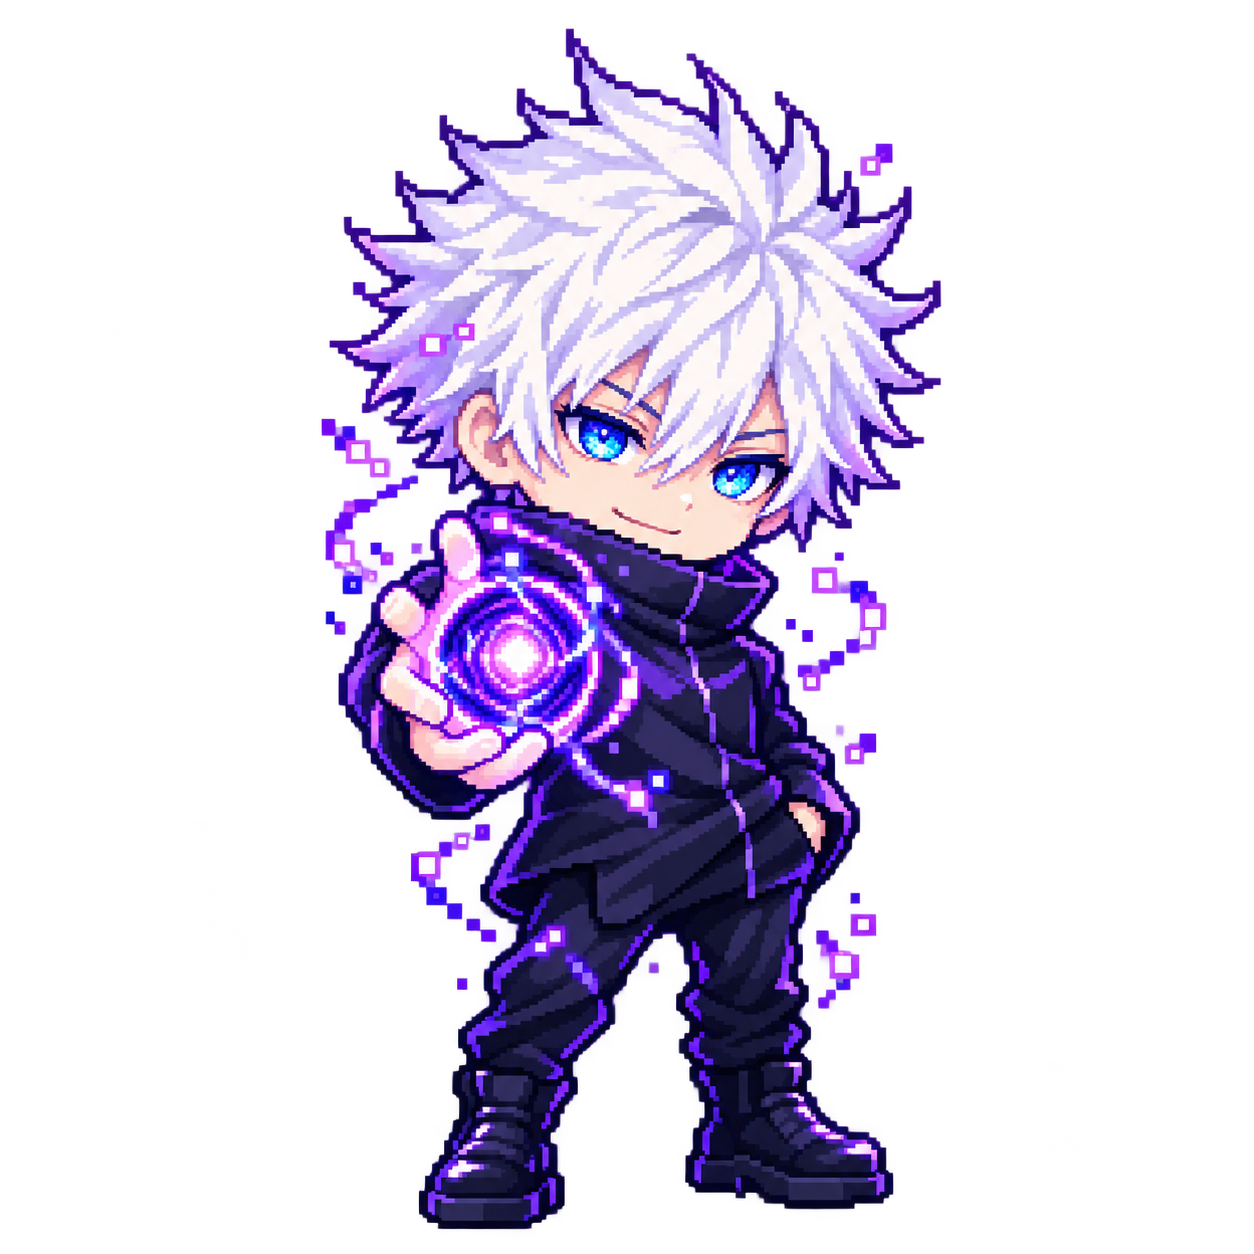
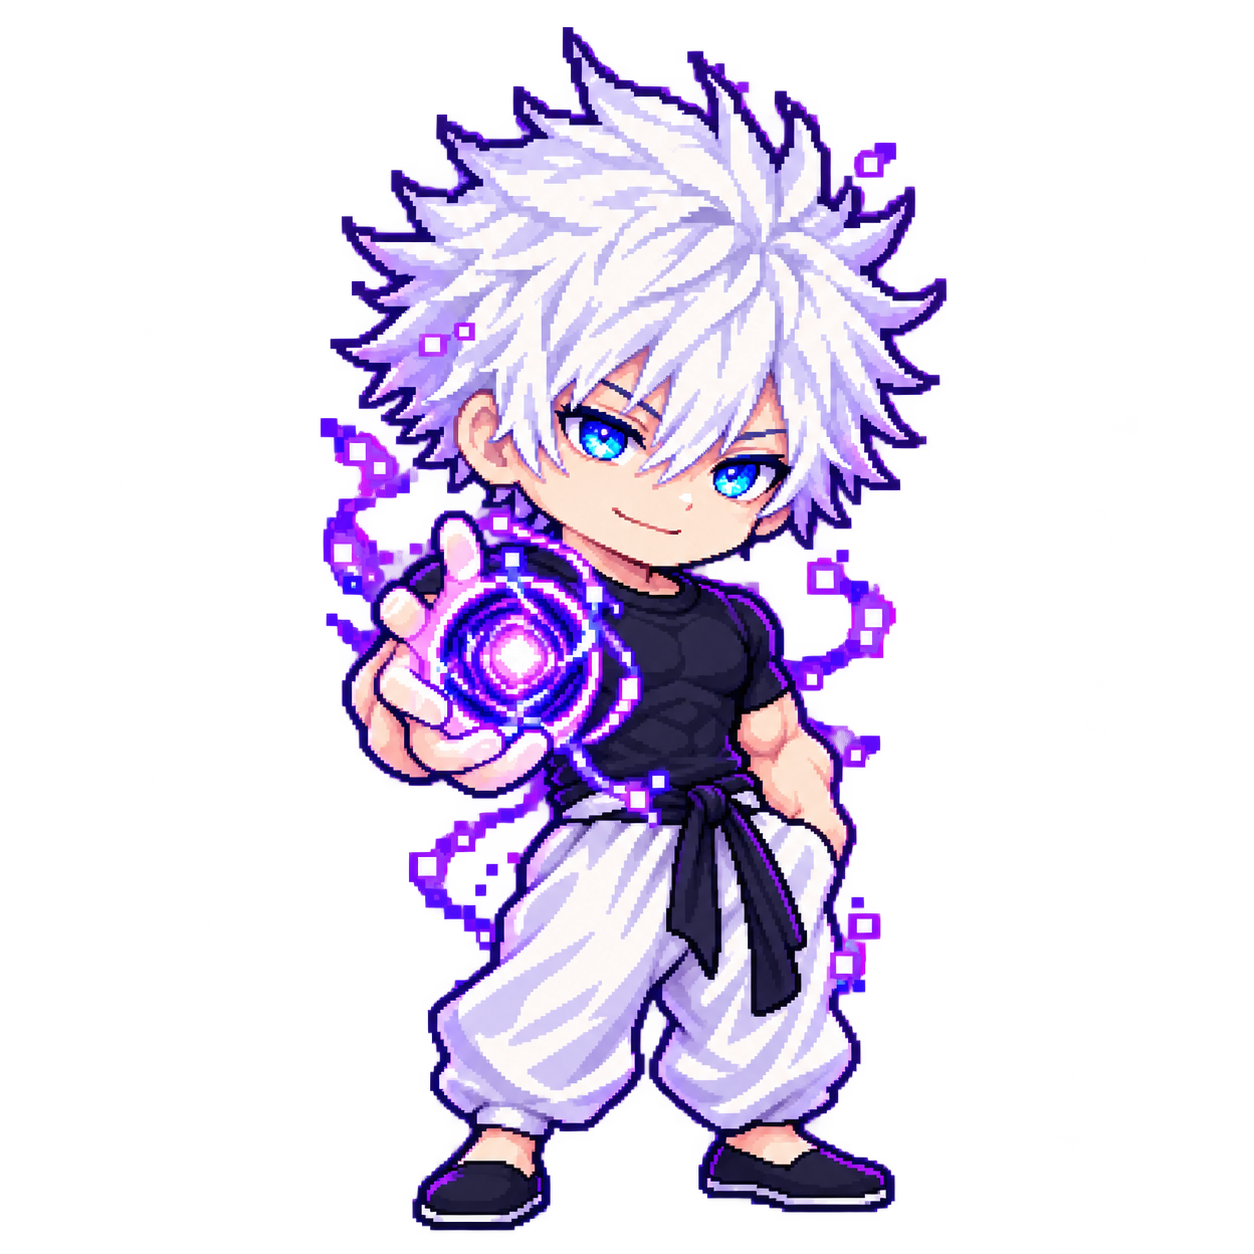
Update Gojo final form to Shinjuku showdown outfit

Changed region(s): [[0.2488, 0.0, 0.7775, 0.9952]]

diff --git a/ARTWORK.md b/ARTWORK.md
@@ -80,3 +80,9 @@ Generate one transparent full-body anime fan-art character sprite for a study pl
 
 Generate one transparent full-body anime fan-art character sprite for a study planner. Frost attached is STYLE REFERENCE ONLY: match detailed crisp square pixel art, cute chibi proportions, large anime eyes, sophisticated pixel shading. Centered entire head and boots visible, character about 75% canvas height. True transparent background, no text, scenery, UI, other characters or soft vector/painted rendering. Recognizable named character with accurate signature traits. Asta from Black Clover, Devil Union form: recognizable ash-grey spiky hair and fierce human face, four small dark horns, black angular anti-magic armor with red-orange accents, black wings folded close behind silhouette, broad dark sword, compact red anti-magic sparks. Full-body cute detailed chibi.
 
+
+## Gojo final-form outfit update
+
+Saved as assets/gojo-3.png. Built-in image editing tool; original Gojo sprite used as edit target.
+
+Use case: identity-preserve. Edit target: the attached Gojo final-evolution pixel sprite. Change ONLY his outfit to Satoru Gojo's Shinjuku showdown outfit during the Sukuna fight: fitted plain BLACK SHORT-SLEEVE CREW-NECK T-SHIRT showing forearms and a muscular torso in the same cute chibi proportions, loose voluminous WHITE MARTIAL-ARTS TROUSERS with a dark waist sash/belt, and black slip-on martial arts shoes. Remove the high collar jacket, dark trousers and tall boots. Preserve exactly his recognizable white spiky hair, uncovered brilliant blue Six Eyes, confident smile, chibi body proportions, detailed crisp square pixel shading, centered full-body framing, forward-facing hand holding the swirling glowing HOLLOW PURPLE orb, and violet energy particles around the silhouette. Keep full head and shoes visible, same margins and transparent background. No scenery, text, other characters, wounds or blood.
